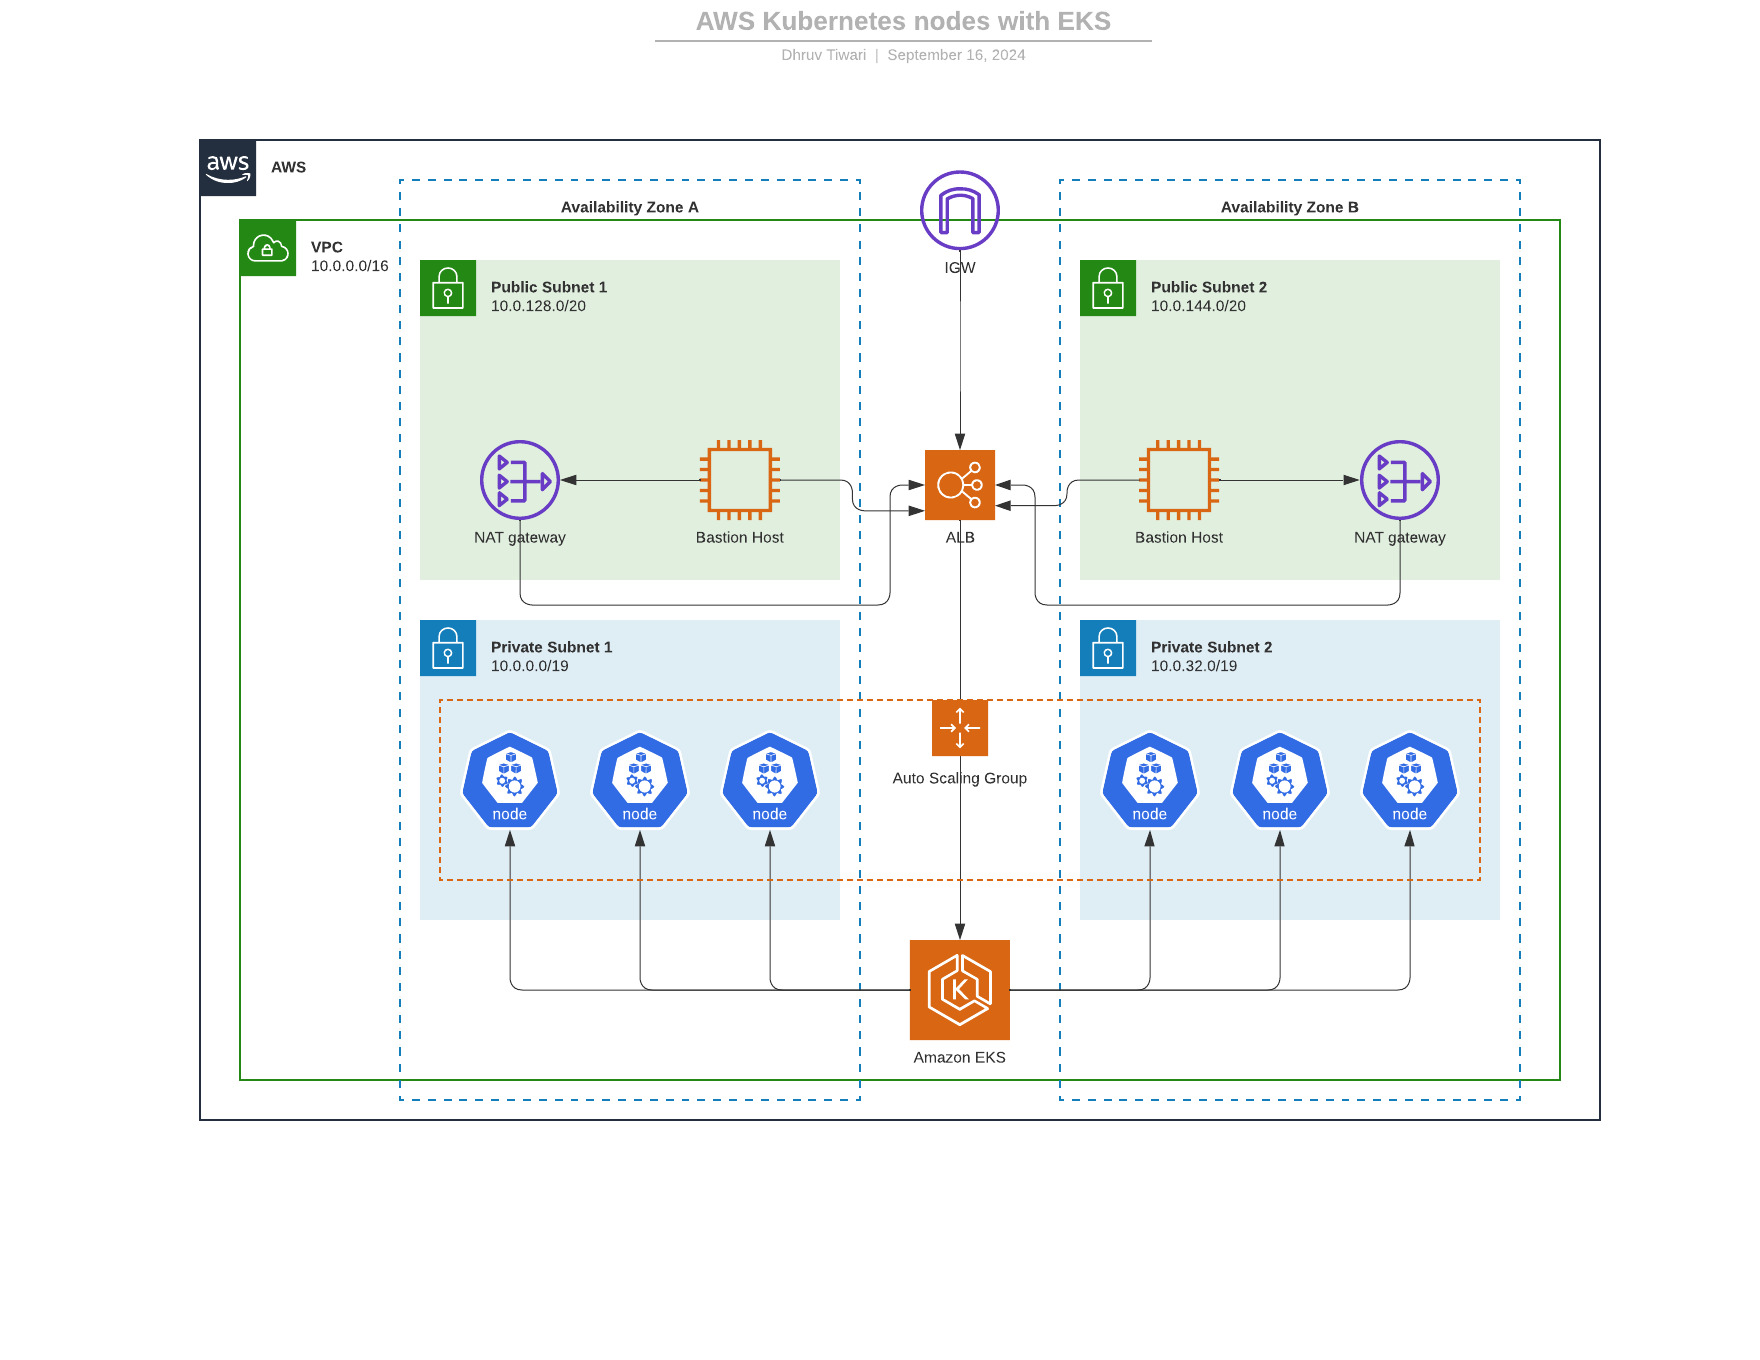
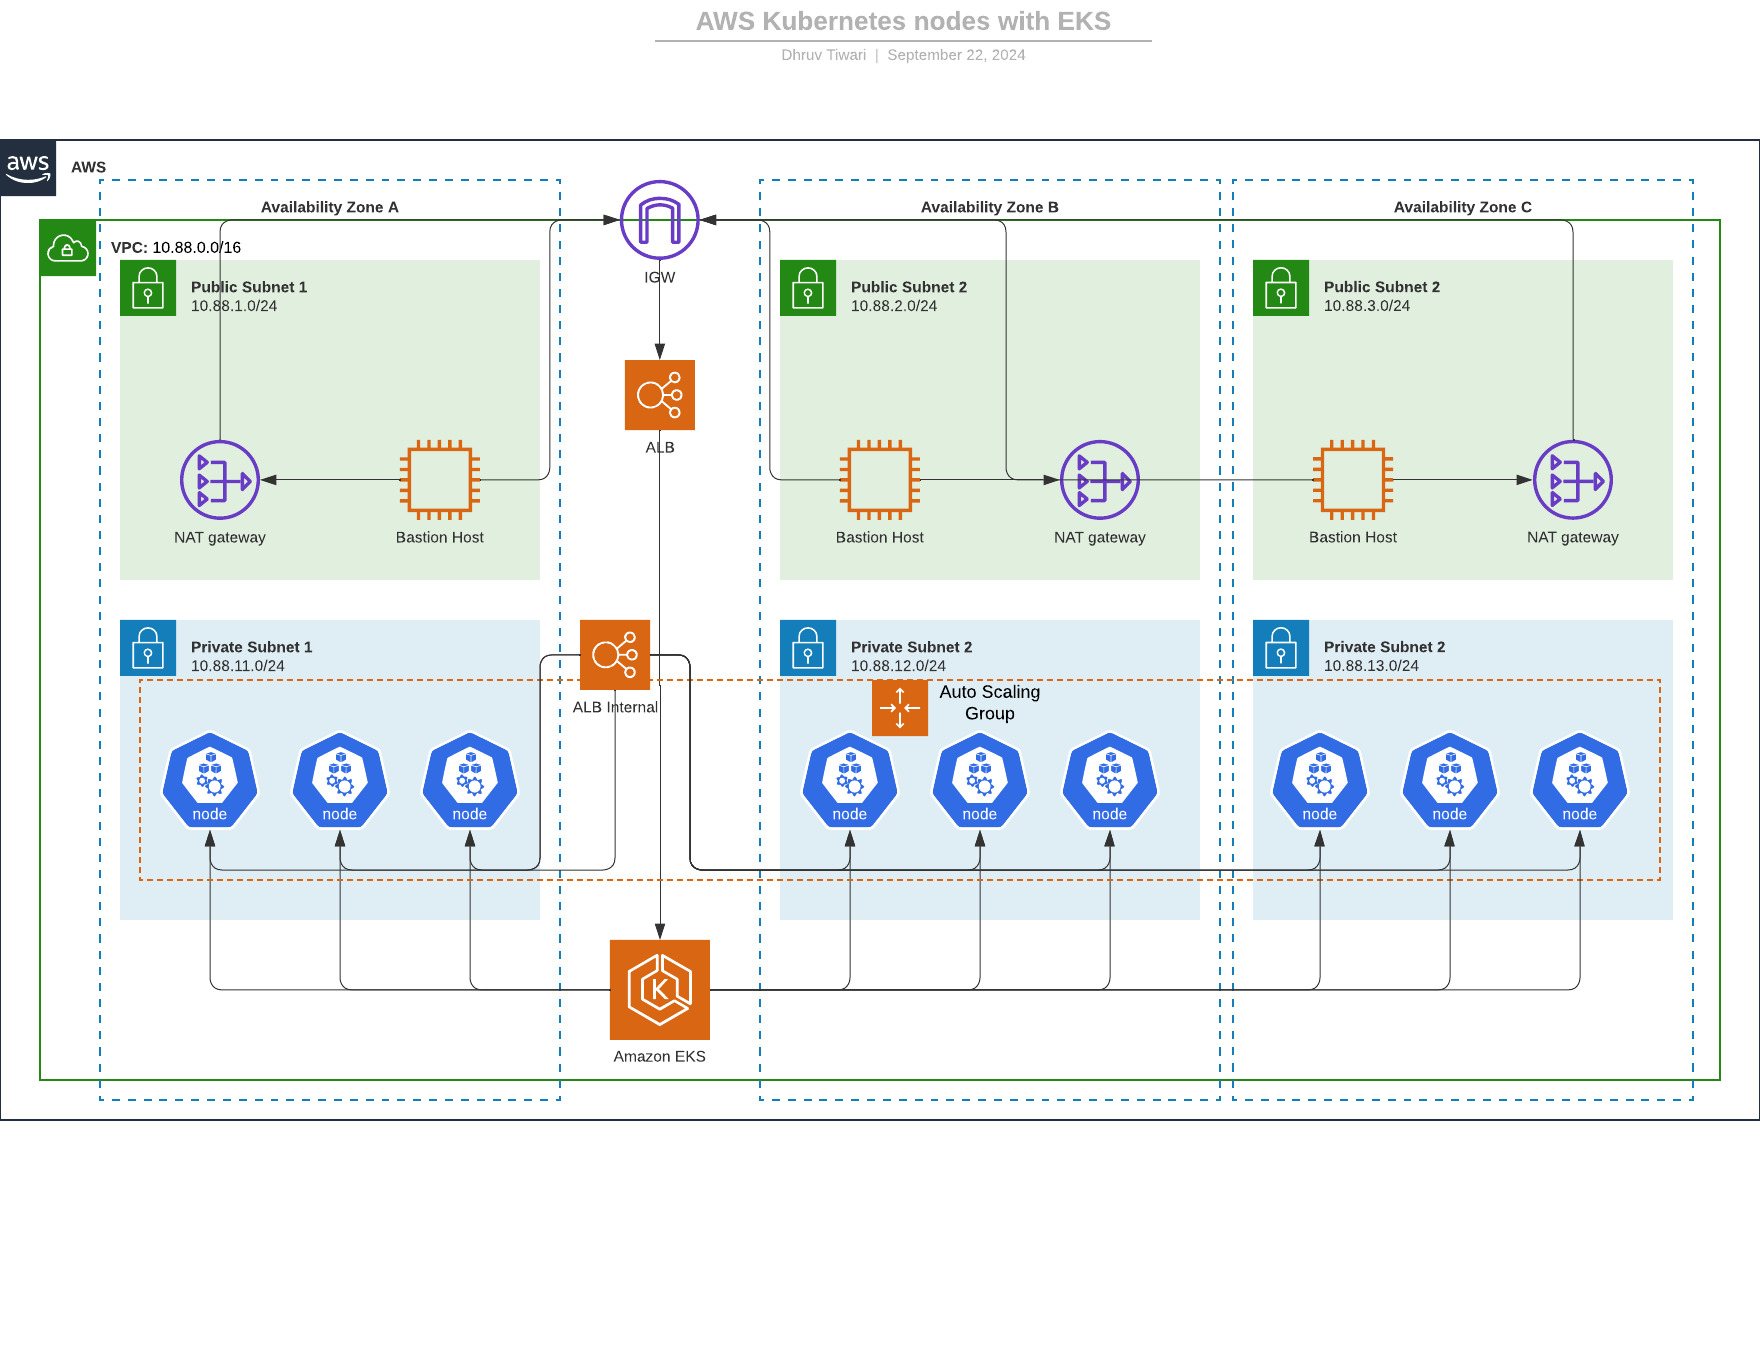
add eks architecture section

diff --git a/_posts/2024-09-17-eks-multiregion-architechture.md b/_posts/2024-09-17-eks-multiregion-architechture.md
@@ -17,7 +17,7 @@ The objective of this article is to create an architecture with the following ob
 ## Architecture
 
 <p align="center">
-  <img src="{{ '/assets/images/architecture_overview.jpeg' | relative_url }}" alt="Architecture Diagram" style="width: 80%; max-width: 800px; border: 1px solid #ccc;">
+  <img src="{{ '/assets/images/architecture_overview.jpeg' | relative_url }}" alt="Architecture Diagram">
 </p>
 
 ## IAC - Terraform with CloudPosse Atmos
@@ -156,14 +156,14 @@ The objective of this article is to create an architecture with the following ob
 
 11. **Now it should be visible from `atmos` CLI**
     <p align="center">
-      <img src="{{ '/assets/images/atmos-cli.png' | relative_url }}" alt="Example" style="width: 80%; max-width: 800px; border: 1px solid #ccc;">
+      <img src="{{ '/assets/images/atmos-cli.png' | relative_url }}" alt="Example">
     </p>
 
 12. **Run the plan for each region, for this example `us-east-1` and `us-west-1`**
 
 13. **For apply, I would recommend using GitHub Actions**
     <p align="center">
-      <img src="{{ '/assets/images/githubaction-run.png' | relative_url }}" alt="GitHub Actions run" style="width: 80%; max-width: 800px; border: 1px solid #ccc;">
+      <img src="{{ '/assets/images/githubaction-run.png' | relative_url }}" alt="GitHub Actions run">
     </p>
 
     A sample workflow:
@@ -189,12 +189,97 @@ The objective of this article is to create an architecture with the following ob
 ## EKS Cluster Architecture
 
 <p align="center">
-  <img src="{{ '/assets/images/eks_arch.jpeg' | relative_url }}" alt="EKS Cluster Architecture" style="width: 80%; max-width: 800px; border: 1px solid #ccc;">
+  <img src="{{ '/assets/images/eks_arch.jpeg' | relative_url }}" alt="EKS Cluster Architecture">
 </p>
+
+### 1. Overall Architecture
+- This architecture diagram represents a highly available and fault-tolerant AWS environment for running **Kubernetes nodes using Amazon EKS (Elastic Kubernetes Service)**.
+- The architecture spans **three Availability Zones (AZs)** to ensure resilience and redundancy in case of failure.
+
+### 2. VPC Configuration
+- The infrastructure operates inside a **Virtual Private Cloud (VPC)** with a CIDR block of **10.88.0.0/16**.
+- The VPC is divided into **public subnets** and **private subnets** across three availability zones (AZ A, AZ B, and AZ C).
+
+### 3. Public Subnets
+- Each availability zone contains a **Public Subnet**:
+  - AZ A: **10.88.1.0/24**
+  - AZ B: **10.88.2.0/24**
+  - AZ C: **10.88.3.0/24**
+- Resources hosted in these public subnets include:
+  - **NAT Gateways**: Used to allow instances in private subnets to securely access the internet without exposing them directly.
+  - **Bastion Hosts**: Provide secure SSH access to instances in private subnets, accessible only via trusted IP addresses.
+  - **External ALB**: Routes traffic from the internet to services hosted in private subnets.
+
+### 4. Private Subnets
+- Each availability zone contains **Private Subnets**:
+  - AZ A: **10.88.11.0/24**
+  - AZ B: **10.88.12.0/24**
+  - AZ C: **10.88.13.0/24**
+- These private subnets host resources such as:
+  - **Amazon EKS Worker Nodes**: Containers running Kubernetes workloads.
+  - **Internal ALB**: Facilitates routing between internal services.
+  - **Auto Scaling Group**: Automatically manages the scaling of EKS worker nodes.
+
+### 5. Elastic Load Balancer (ALB)
+- Two types of load balancers are used in this architecture:
+  - **External ALB**: Exposed to the internet via the **Internet Gateway (IGW)**, it distributes incoming traffic across EKS worker nodes in private subnets.
+  - **Internal ALB**: Resides in the **private subnets** and routes traffic between internal services and EKS worker nodes. It is not exposed to the internet.
+
+### 6. Internet Gateway (IGW)
+- The **Internet Gateway (IGW)** allows public subnets to communicate with the internet, providing inbound and outbound internet access for the external ALB, NAT gateways, and bastion hosts.
+
+### 7. NAT Gateway
+- **NAT Gateways** are deployed in each **public subnet** to provide **outbound internet access** for instances in private subnets.
+- EKS nodes in private subnets can connect to the internet to pull Docker images or access other external resources without being directly exposed.
+
+### 8. VPC Endpoints for S3 and DynamoDB (Optional)
+- **VPC Gateway Endpoints** allow instances in private subnets to securely access **Amazon S3** and **Amazon DynamoDB** without going through the internet or NAT Gateway, improving security and reducing costs.
+  - **S3 Endpoint**: Enables internal access to S3 buckets for object storage.
+  - **DynamoDB Endpoint**: Enables direct access to DynamoDB tables from private subnets.
+
+### 9. Stateful Resources (Amazon S3 and DynamoDB)
+- **Amazon S3**:
+  - Provides scalable, durable, and highly available **object storage**. S3 buckets can be accessed from the private subnets via **VPC Gateway Endpoints**.
+  - **Cross-Region Replication (CRR)** is enabled for disaster recovery, replicating data to a different AWS region.
+  
+- **Amazon DynamoDB**:
+  - A fully managed, highly available **NoSQL database**. DynamoDB tables can be accessed from private subnets through **DynamoDB VPC Gateway Endpoints**.
+  - **Global Tables** are enabled to provide multi-region replication, ensuring low-latency access and high availability across different regions.
+
+### 10. Security Considerations
+- **Bastion Hosts**: Only accessible through sessions manager
+- **Security Groups**: Applied to EKS nodes, ALBs, and NAT gateways to control both inbound and outbound traffic based on the principle of least privilege.
+- **VPC Endpoints**: Improve security by enabling private access to S3 and DynamoDB without using the public internet.
+
+### 11. Traffic Flow:
+- **External Traffic** (Public):
+  - **Internet -> IGW -> External ALB -> EKS Nodes (Private Subnets)**.
+
+- **Internal Traffic** (Private):
+  - **Internal Service -> Internal ALB -> EKS Nodes (Private Subnets)**.
+
+- **Outbound Internet Traffic** (from Private Subnets):
+  - **EKS Nodes (Private Subnets) -> NAT Gateway -> Internet**.
+
+- **S3 and DynamoDB Access** (via VPC Endpoints):
+  - **EKS Nodes (Private Subnets) -> VPC Gateway Endpoints -> S3/DynamoDB**.
+
+### 12. Route Tables
+- **Public Subnets**: Route to **Internet Gateway (IGW)** for public-facing traffic.
+- **Private Subnets**: Route through **NAT Gateway** for outbound internet access.
+- **VPC Endpoints**: Optional entries for direct access to **S3** and **DynamoDB** without NAT Gateway.
+
+### 13. High Availability and Fault Tolerance
+- The architecture is spread across **three Availability Zones (AZs)** to ensure high availability.
+- Critical services like **NAT Gateways**, **ALBs**, and **EKS worker nodes** are distributed across all AZs to prevent single points of failure.
+- **Auto Scaling** ensures that the number of worker nodes scales based on demand.
+
+
 
 ## Blue-Green Deployment with ArgoCD
 
 Assuming that argocd has already been deployed to eks, either through manifests or through terraform
+
 **Steps**
 1. **Create Two Environments:** Deploy two versions of the application (blue and green) using separate namespaces or ArgoCD Applications.
 2. **Deploy the Green Environment:** Deploy the new version (green) without affecting the blue version.
@@ -204,14 +289,14 @@ Assuming that argocd has already been deployed to eks, either through manifests 
 
 ## Cost and Cost Optimization
 
-### Costs Involved:
+### Costs Involved
 1. **EKS Clusters:** Charged for the control plane and worker nodes (EC2 instances).
 2. **Load Balancers:** Costs for handling incoming traffic.
 3. **Route 53:** Charged for DNS queries and health checks.
 4. **S3, DynamoDB:** Storage costs for state files (if using Terraform backend).
 5. **NAT Gateways:** Charged by data processing and usage.
 
-### Cost Optimization Strategies:
+### Cost Optimization Strategies
 1. **Spot Instances:** Use spot instances for worker nodes to save up to 90% of EC2 costs.
 2. **Auto Scaling:** Ensure efficient scaling of EKS worker nodes based on traffic.
 3. **Rightsize Resources:** Optimize instance types and sizes for both nodes and bastion hosts.
